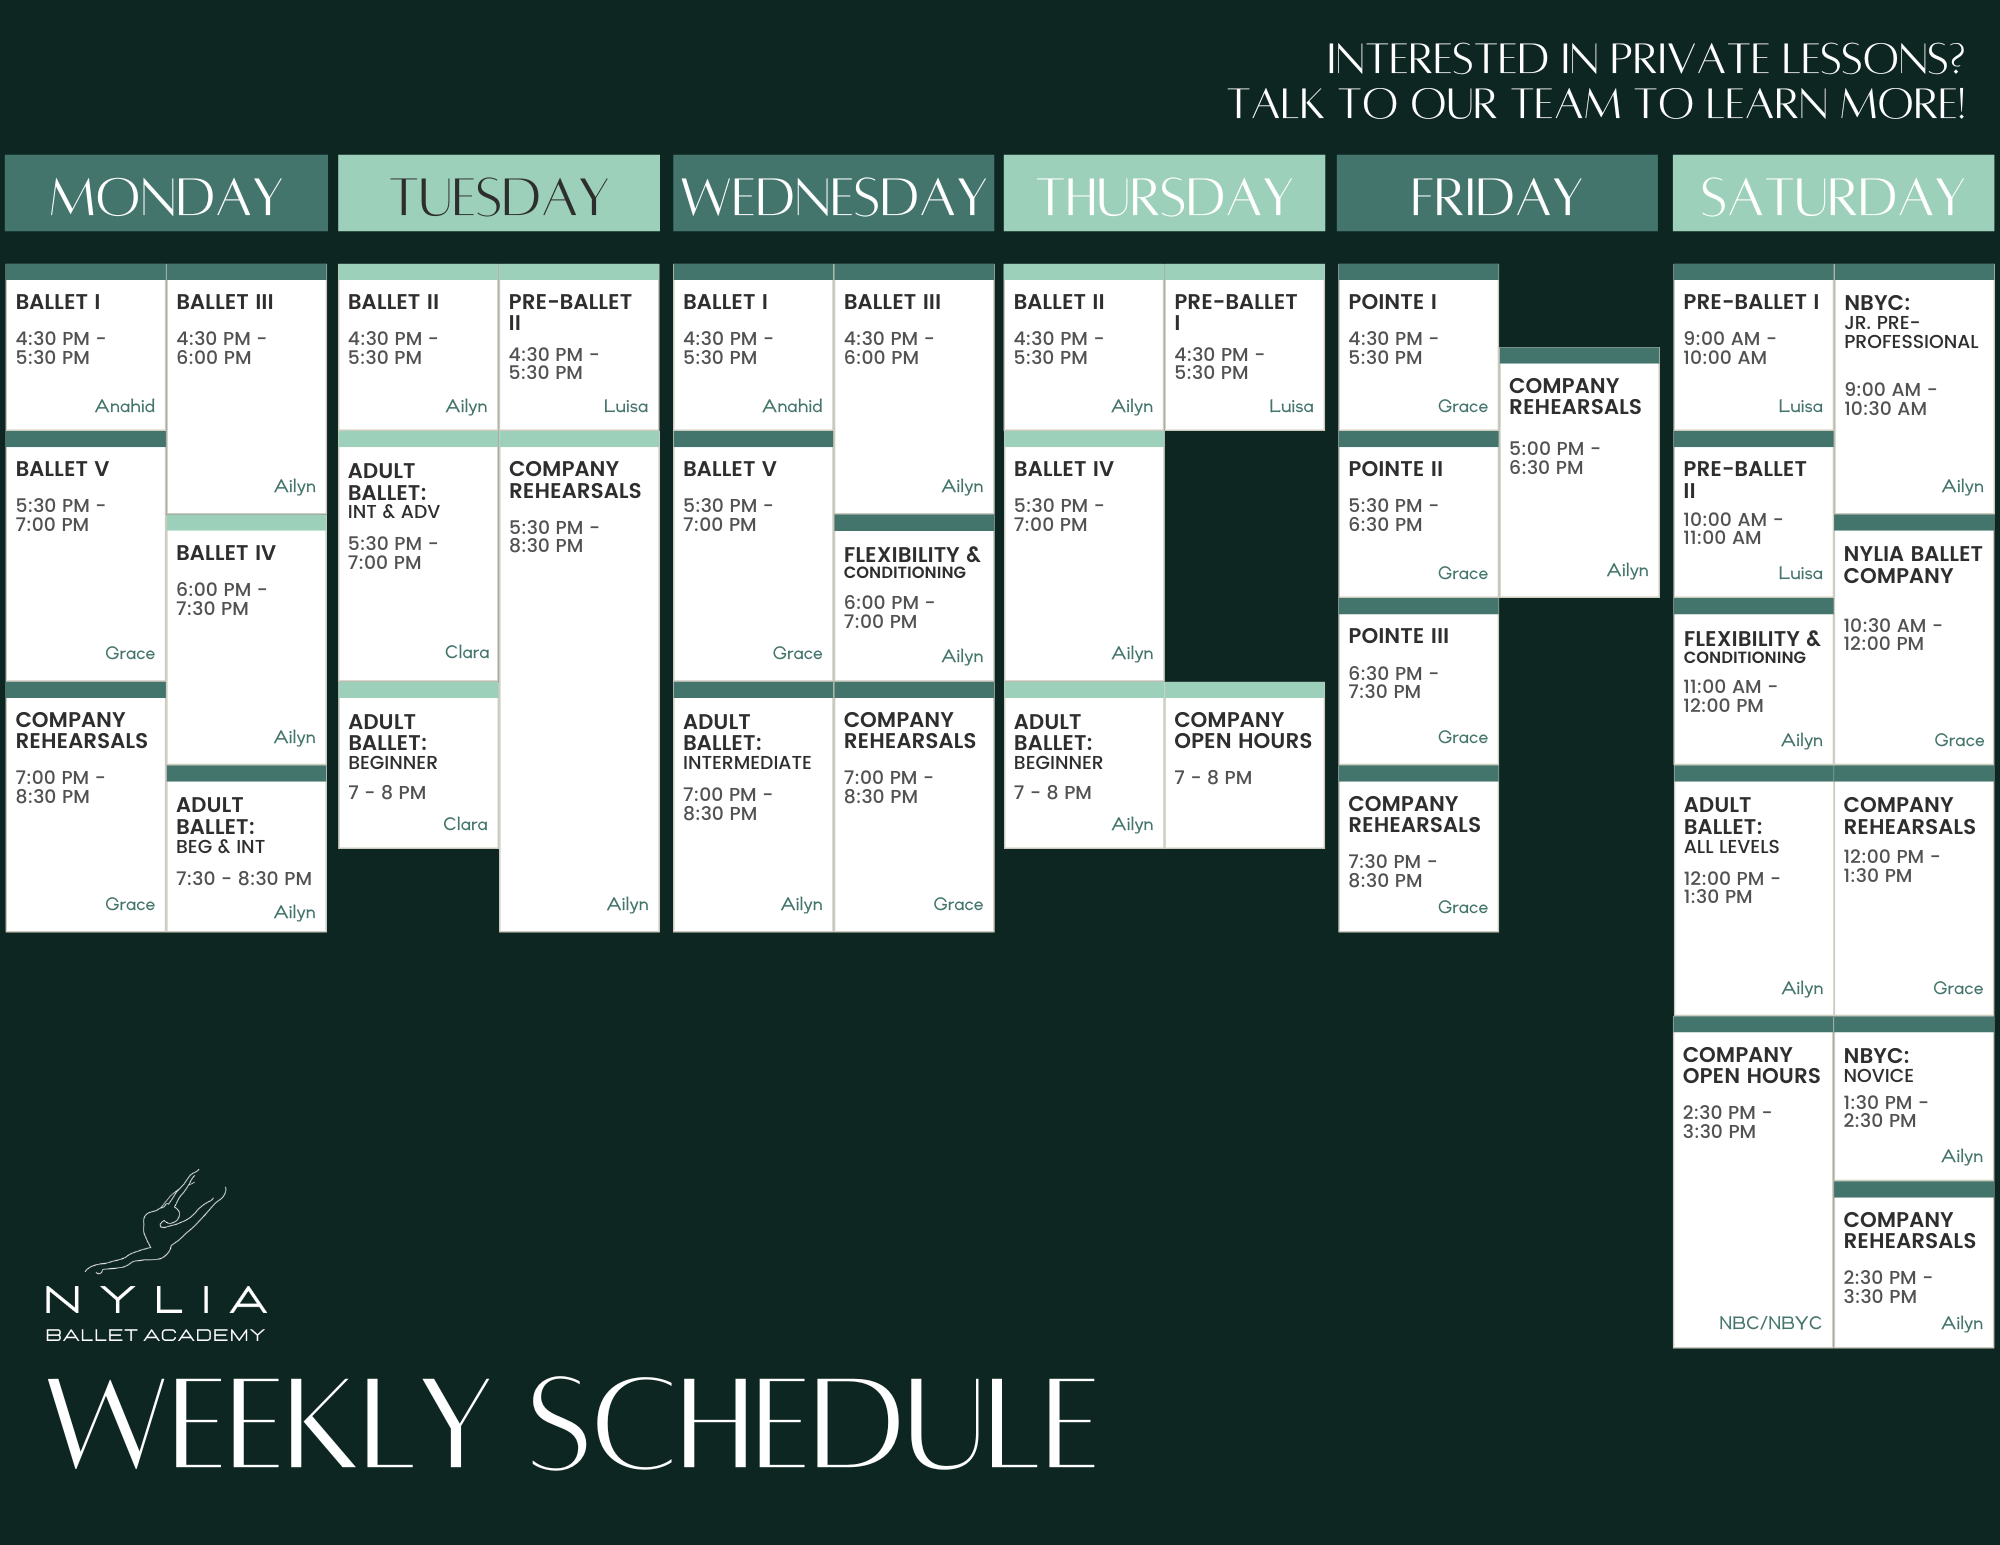
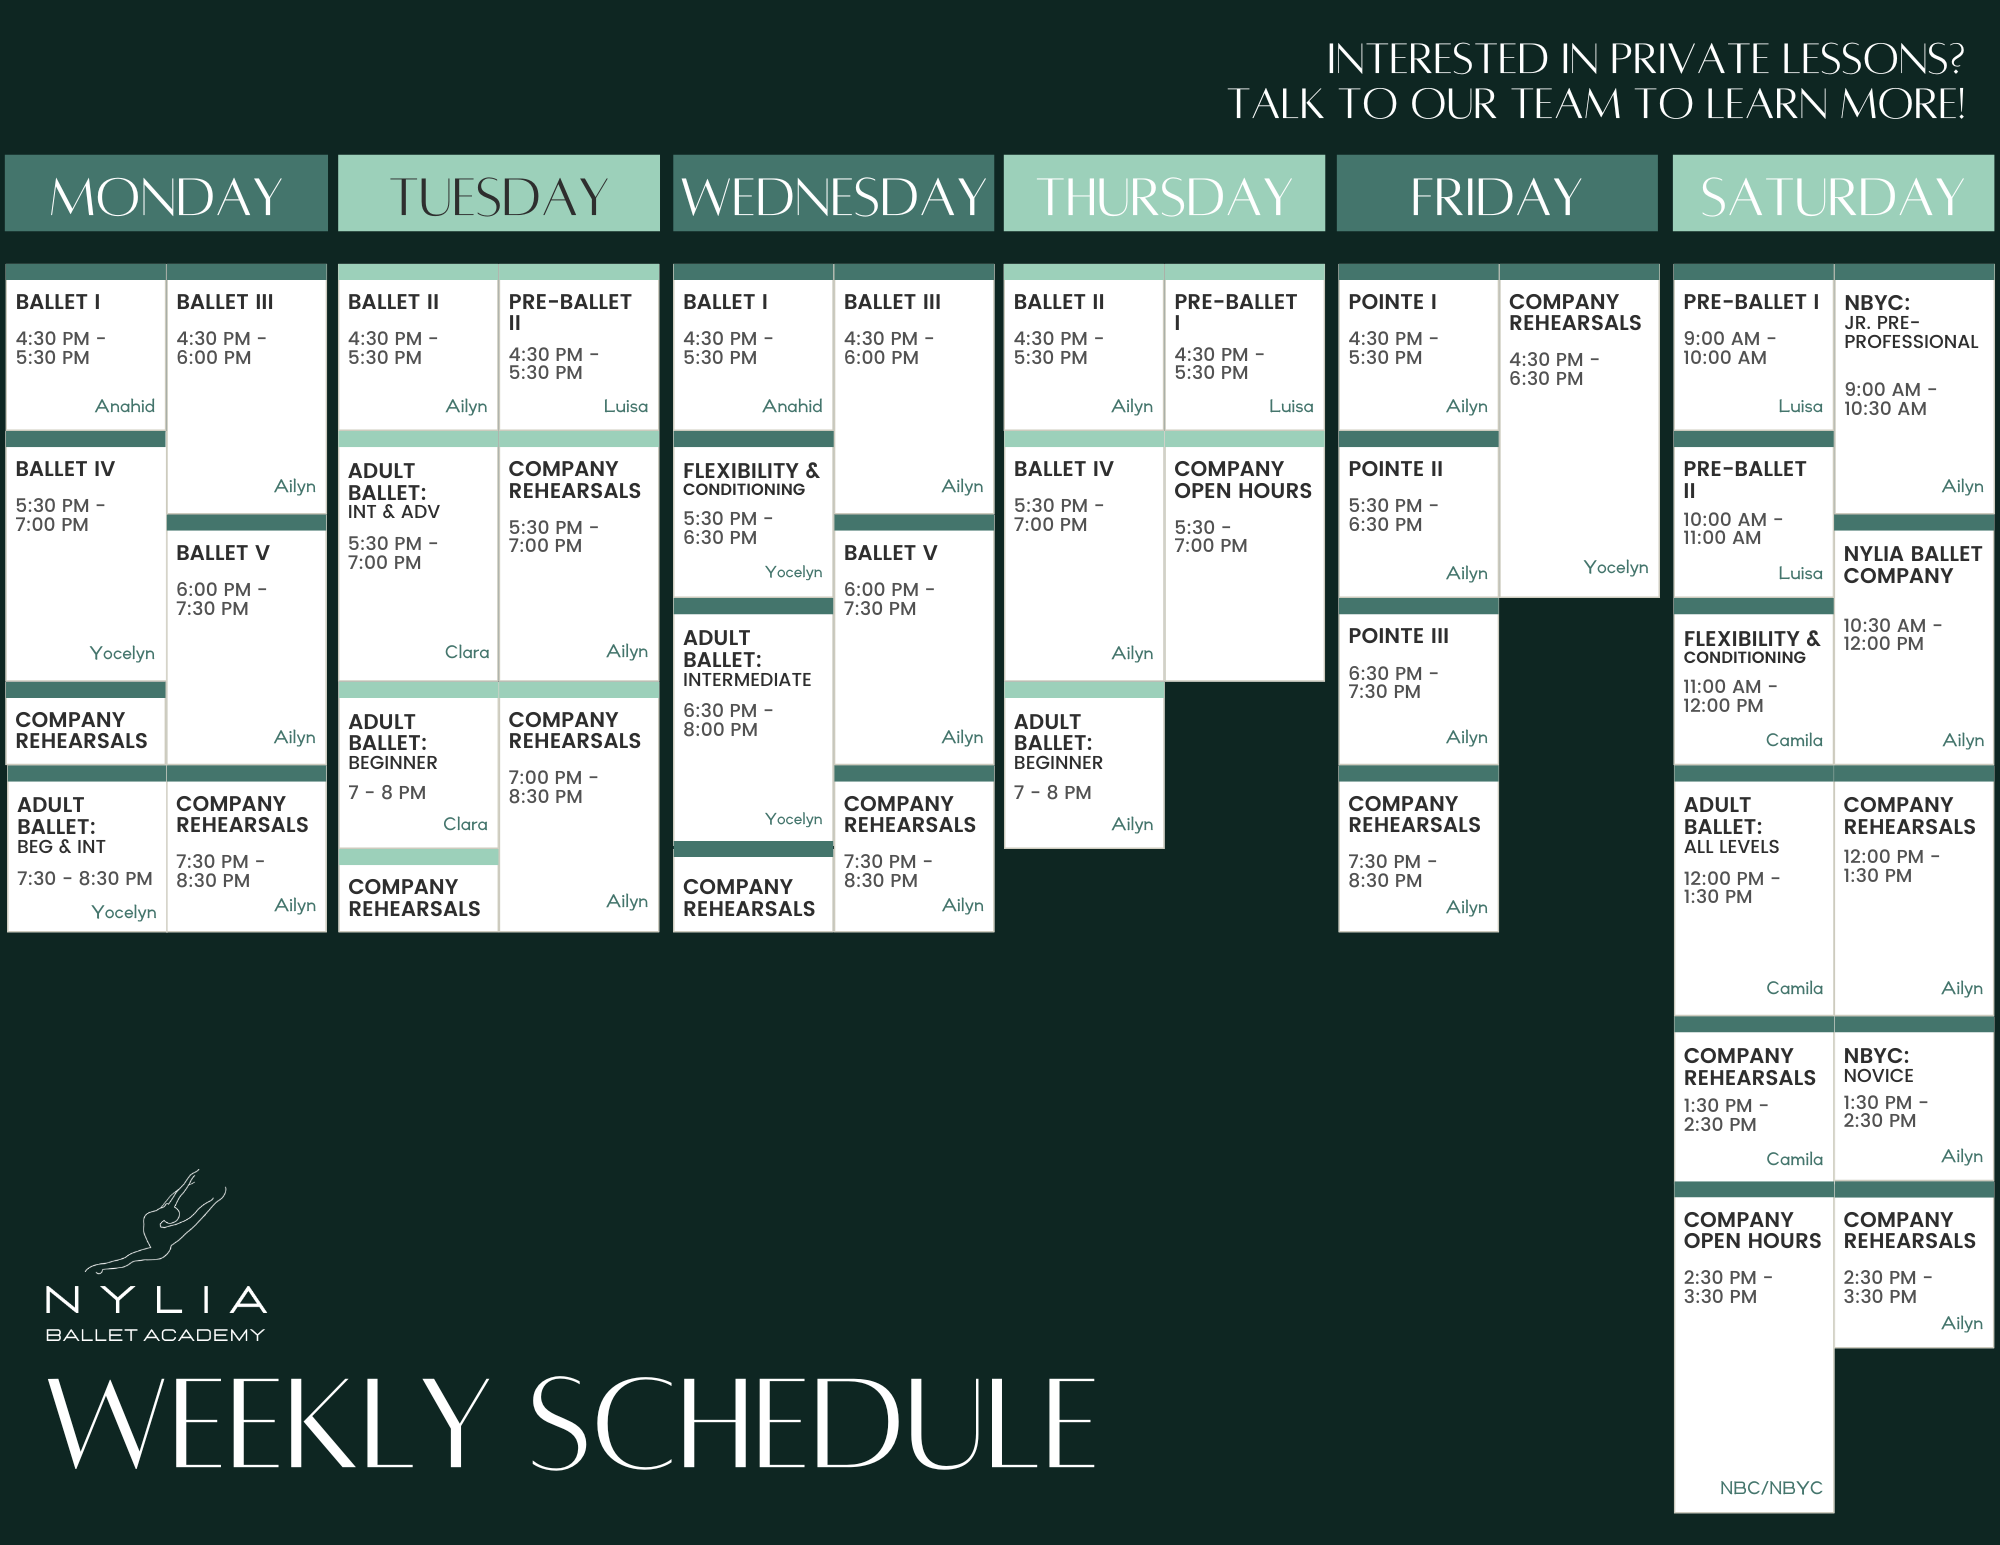
Update schedule, team

diff --git a/src/components/Team.js b/src/components/Team.js
@@ -4,6 +4,7 @@ import Footer from "../components/Footer";
 import ailyn from "../assets/nbc/headshots/JPEG-2000/ailyn.png";
 import luisaXL from "../assets/nbc/headshots/JPEG-2000/luisa.png";
 import anahidXL from "../assets/nbc/headshots/JPEG-2000/anahid.jpg";
+import yocelynXL from "../assets/nbc/headshots/JPEG-2000/yocelyn.jpg";
 import graceXL from "../assets/nbc/headshots/JPEG-2000/grace.jpg";
 import beckXL from "../assets/nbc/headshots/JPEG-2000/beck.jpg";
 import claraXL from "../assets/nbc/headshots/JPEG-2000/clara2.png";
@@ -36,14 +37,6 @@ function Team() {
       description:
         "Beck, a proud El Paso native, is currently pursuing a BFA with a focus on Painting and a minor in Graphic Design at UTEP. Following high school, Beck was offered a soccer scholarship at Navarro College and also secured a prestigious local scholarship from El Paso. With a diverse background in various job fields, Beck has diligently honed their artistic skills while also making a name for themselves as a local vegan cook, actively seeking to expand their culinary expertise. Securing multiple scholarships and furthering their art techniques, Beck joined Nylia Ballet Academy as a Production Assistant, whose works include personally crafting the Cinderella set. In addition to serving as the house artist, they are a valuable member of the Nylia Dancewear team, contributing to the creation of stunning attire. Furthermore, Beck has attained a Technical Diploma in Medical Assistance and completed their phlebotomy certification through a Texas-accredited school, showcasing their versatility beyond artistic pursuits. Known for their multitude of talents and unwavering passion for art, Beck consistently brings a burst of creativity to Nylia Ballet's showcases.",
     },
-
-    grace: {
-      name: "GRACE MCCOY",
-      profileImg: graceXL,
-      position: "Artistic Director - Nylia Ballet Company",
-      description:
-        "Originally from Oklahoma, Grace is a retired dancer, choreographer, instructor, and fine artist. Trained at Tulsa Ballet, as well as The Kirov Academy, Boston Ballet, Ellison Ballet, and the Marais Ballet School in Paris, placing top 12 at YAGP in 2011 and 2012. Grace joined Tulsa Ballet in 2013 and during their time there performed works by many great choreographers including, Marcello Angelini, Ma Cong, Adam Hougland, Ben Stevenson, Paul Taylor, and Christopher Wheeldon. Upon retirement, they worked as Ballet Mistress for Academy of Performing Arts and has choreographed several full-length performance pieces including an original production of Alice in Wonderland and a Four Moons Ballet celebrating the five native ballerinas from Oklahoma. Grace has worked as a choreographer and instructor at multiple dance studios in the Pacific Northwest, and most recently was Ballet Mistress at Columbia Ballet School in South Carolina, coaching their students to first place awards at many competitions as well as having many graduates and receive contracts with ballet or contemporary companies including, Alvin Ailey, Boston Ballet, Ballet West, Sarasota Ballet, Cincinnati Ballet, and North Carolina School of the Arts. Grace's choreography has been showcased at YAGP finals, the DC Native American Smithsonian, and many performances around the US. Grace currently lives in El Paso, and is excited to be at Nylia Ballet. In addition to a dance career, Grace is currently an MFA candidate in Art Practice from the School of Visual Arts in New York City, has a BFA in Studio Art, is a 500-hour registered yoga teacher, a NASM certified personal trainer, and an NCSA certified strength and conditioning coach.",
-    },
     anahid: {
       name: "ANAHID AGUIRRE",
       profileImg: anahidXL,
@@ -63,6 +56,12 @@ function Team() {
       profileImg: claraXL,
       position: "Instructor",
       description: `Clara Neufeld is a dance teacher, Pilates instructor, and choreographer passionate about connecting people to the joy of movement in all forms throughout El Paso, TX. Clara’s dance training began in classical ballet under the direction of Andrée Harper, instilling her with discipline, perseverance, and a drive for excellence. As an Eastwood HS Trooperette, Clara discovered her passion for teaching and choreographing.  These pursuits led her to Texas Christian University’s School for Classical & Contemporary Dance, where she studied under various dance merit and academic achievement scholarships, as a Hispanic Scholarship Fund Scholar, and part of the John V. Roach Honors College.  While at TCU, Clara performed as “Silver” in Jewels Pas de Quarte in The Sleeping Beauty (excerpts), Swan Lake (Act II), and in original works by Keith Saunders, Rubén Gerding, and Peter Pucci.  In May 2023, Clara received a BFA in Ballet and a BA in English with Honors Laureate Distinction, in addition to a 700-hour comprehensive Pilates Teaching Certificate.`,
+    },
+    yocelyn: {
+      name: "YOCELYN SALCIDO",
+      profileImg: yocelynXL,
+      position: "Instructor",
+      description: ``,
     },
   };
 
@@ -84,12 +83,7 @@ function Team() {
             position={memberInfo.beck.position}
             description={memberInfo.beck.description}
           ></TeamCard>
-          <TeamCard
-            profileImg={memberInfo.grace.profileImg}
-            name={memberInfo.grace.name}
-            position={memberInfo.grace.position}
-            description={memberInfo.grace.description}
-          ></TeamCard>
+
           <TeamCard
             profileImg={memberInfo.anahid.profileImg}
             name={memberInfo.anahid.name}
@@ -107,6 +101,12 @@ function Team() {
             name={memberInfo.clara.name}
             position={memberInfo.clara.position}
             description={memberInfo.clara.description}
+          ></TeamCard>
+          <TeamCard
+            profileImg={memberInfo.yocelyn.profileImg}
+            name={memberInfo.yocelyn.name}
+            position={memberInfo.yocelyn.position}
+            description={memberInfo.yocelyn.description}
           ></TeamCard>
         </CardGroup>
       </div>

diff --git a/src/components/Classes.js b/src/components/Classes.js
@@ -236,7 +236,7 @@ function Classes() {
       imgSet: `${ballet4Sm} 300w, ${ballet4Md} 768w, ${ballet4Lg} 1280w, ${ballet4XL} 2000w`,
       webpSet: `${ballet4SmWebp} 300w, ${ballet4MdWebp} 768w, ${ballet4LgWebp} 1280w, ${ballet4XLWebp} 2000w`,
       classSched1: "MONDAY",
-      classSched2: "6:00 - 7:30 PM",
+      classSched2: "5:30 - 7:00 PM",
       classSched3: "THURSDAY",
       classSched4: "5:30 - 7:00 PM",
       classSched5: "",
@@ -252,7 +252,7 @@ function Classes() {
       imgSet: `${ballet5Sm} 300w, ${ballet5Md} 768w, ${ballet5Lg} 1280w, ${ballet5XL} 2000w`,
       webpSet: `${ballet5SmWebp} 300w, ${ballet5MdWebp} 768w, ${ballet5LgWebp} 1280w, ${ballet5XLWebp} 2000w`,
       classSched1: "MONDAY & WEDNESDAY",
-      classSched2: "5:30 - 7:00 PM",
+      classSched2: "6:00 - 7:30 PM",
       classSched3: "",
       classSched4: "",
       classSched5: "",
@@ -337,7 +337,7 @@ function Classes() {
       classSched3: "TUESDAY",
       classSched4: "5:30 - 7:00 PM",
       classSched5: "WEDNESDAY",
-      classSched6: "7:00 - 8:30 PM",
+      classSched6: "6:30 - 8:00 PM",
       classDesc:
         "This class is designed for intermediate ballet dancers. Participants will strengthen their ballet technique aimed to improve alignment and balance, strengthen muscles, and increase flexibility.",
       classRgstr: dropInWlcm,
@@ -381,7 +381,7 @@ function Classes() {
       imgSet: `${flexibilitySm} 300w, ${flexibilityMd} 768w, ${flexibilityLg} 1280w, ${flexibilityXL} 2000w`,
       webpSet: `${flexibilitySmWebp} 300w, ${flexibilityMdWebp} 768w, ${flexibilityLgWebp} 1280w, ${flexibilityXLWebp} 2000w`,
       classSched1: "WEDNESDAY",
-      classSched2: "6:00 PM - 7:00 PM",
+      classSched2: "5:30 PM - 6:30 PM",
       classSched3: "SATURDAY",
       classSched4: "11:00 AM - 12:00 PM",
       classSched5: "",
